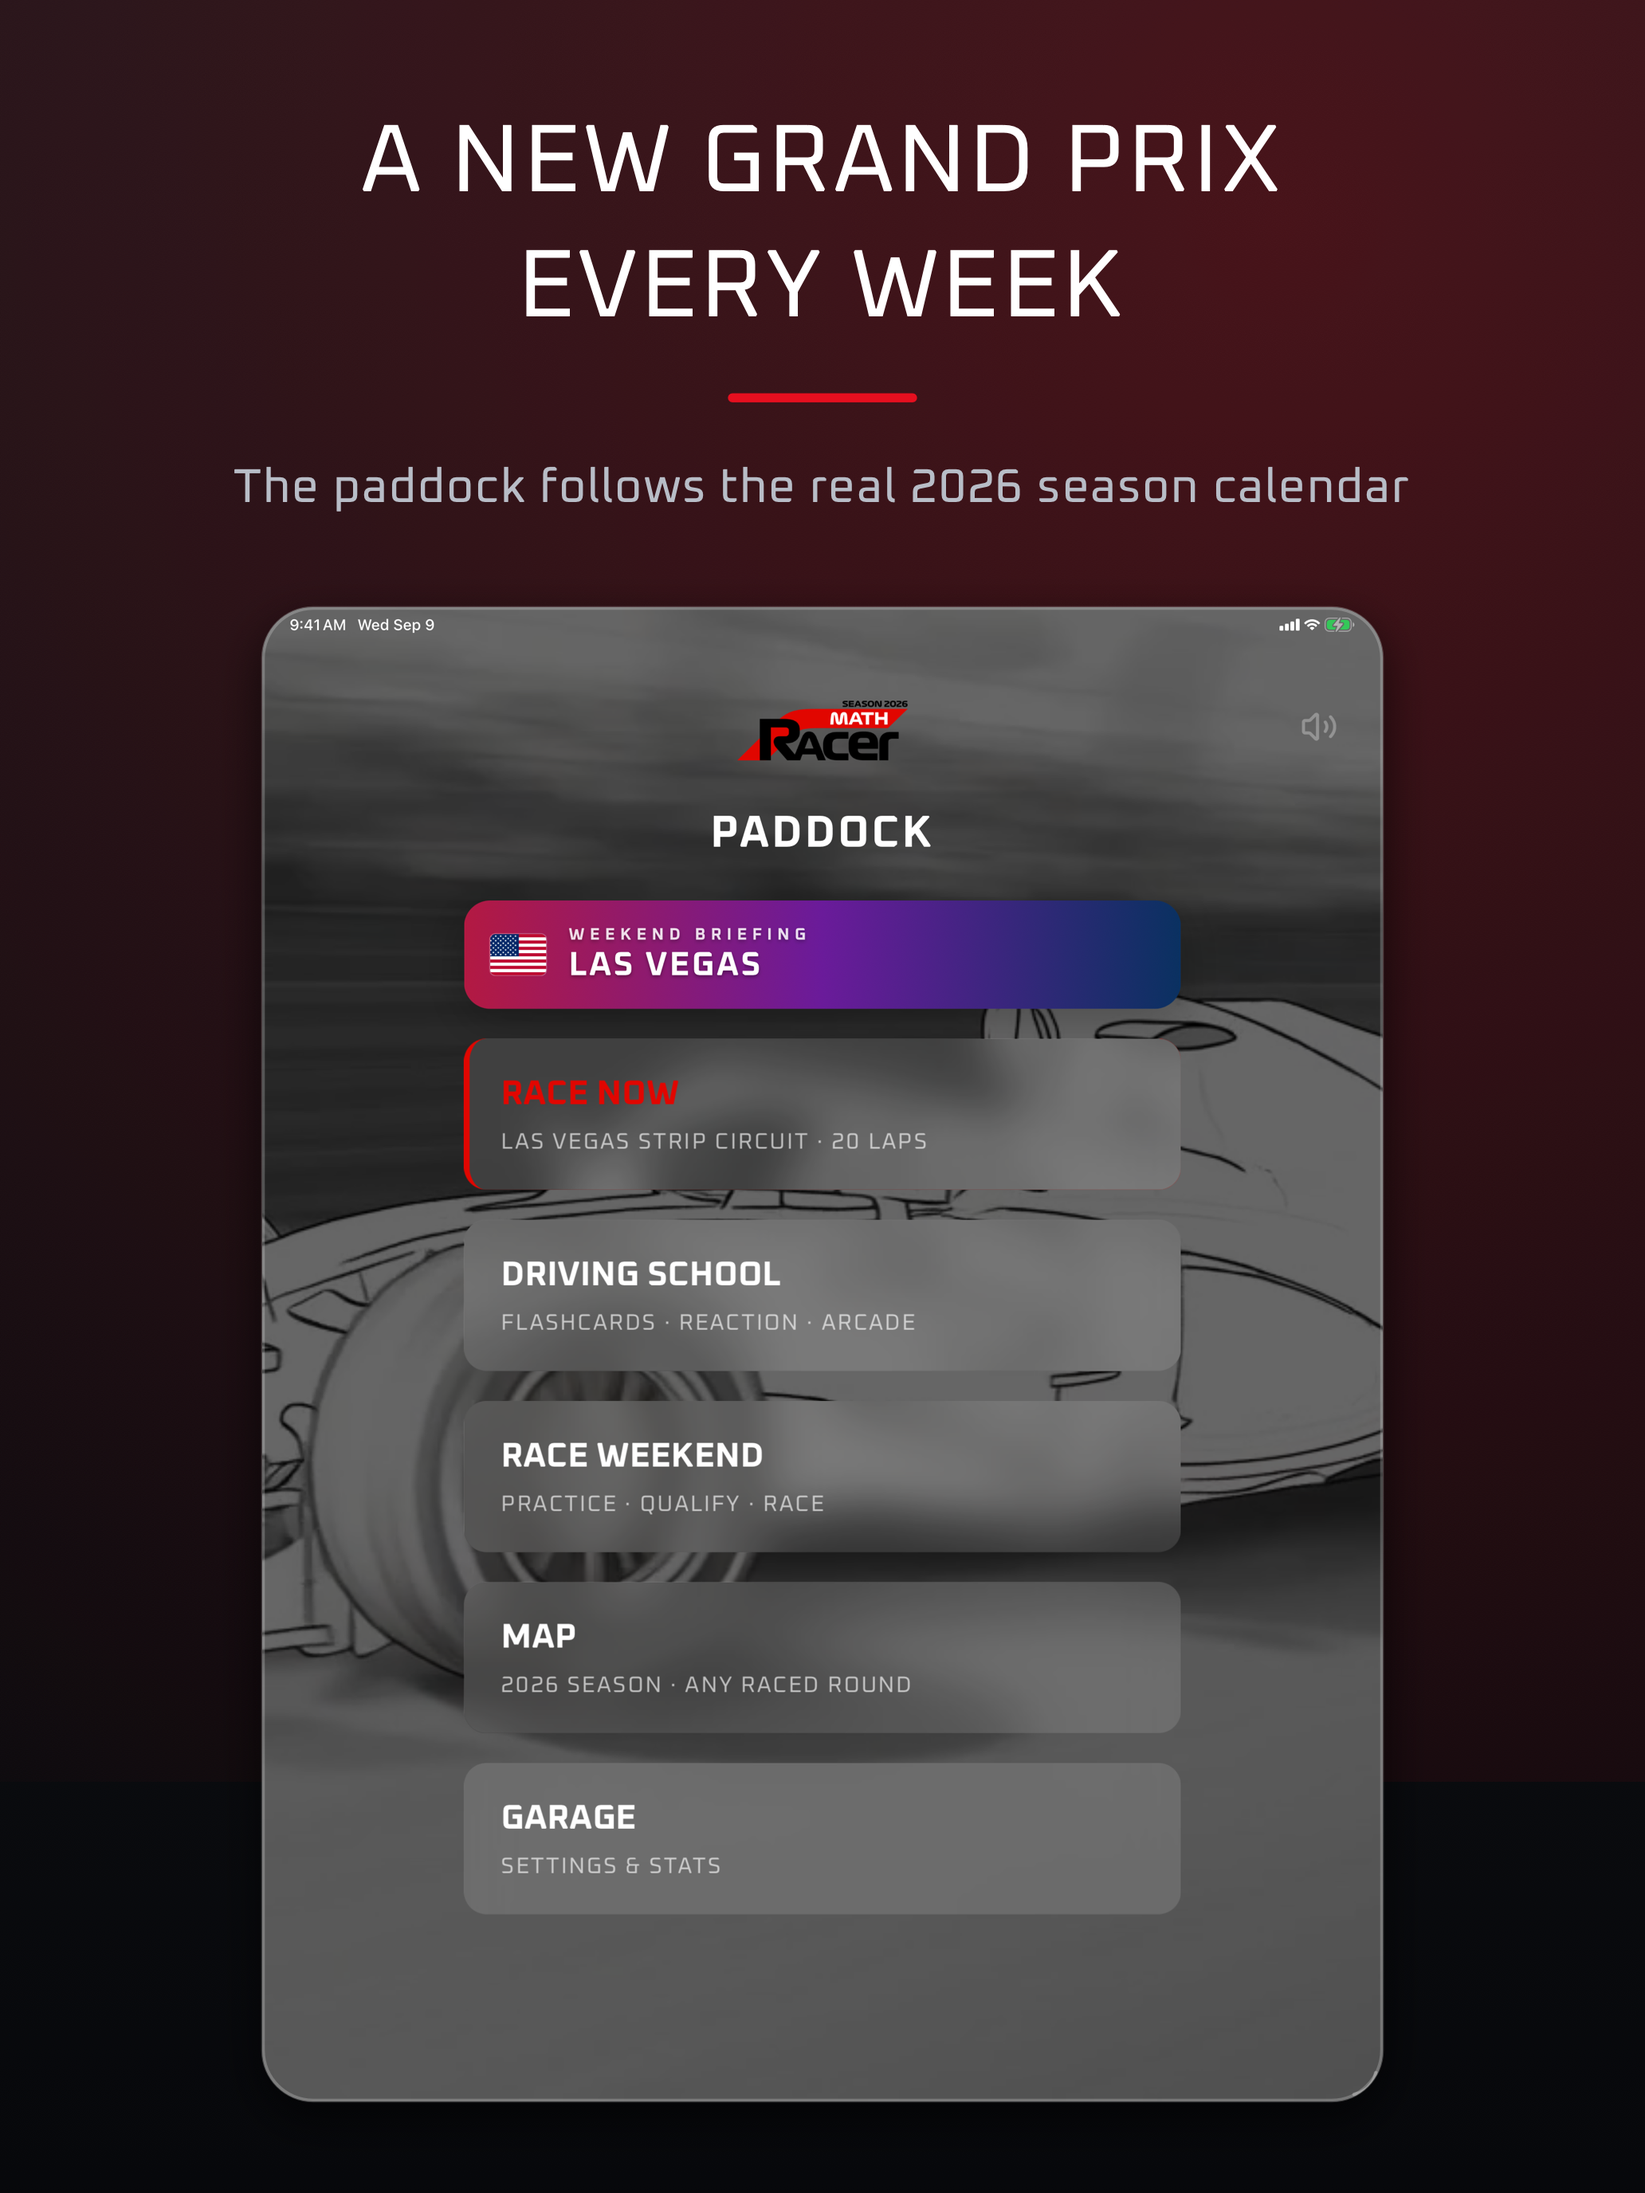
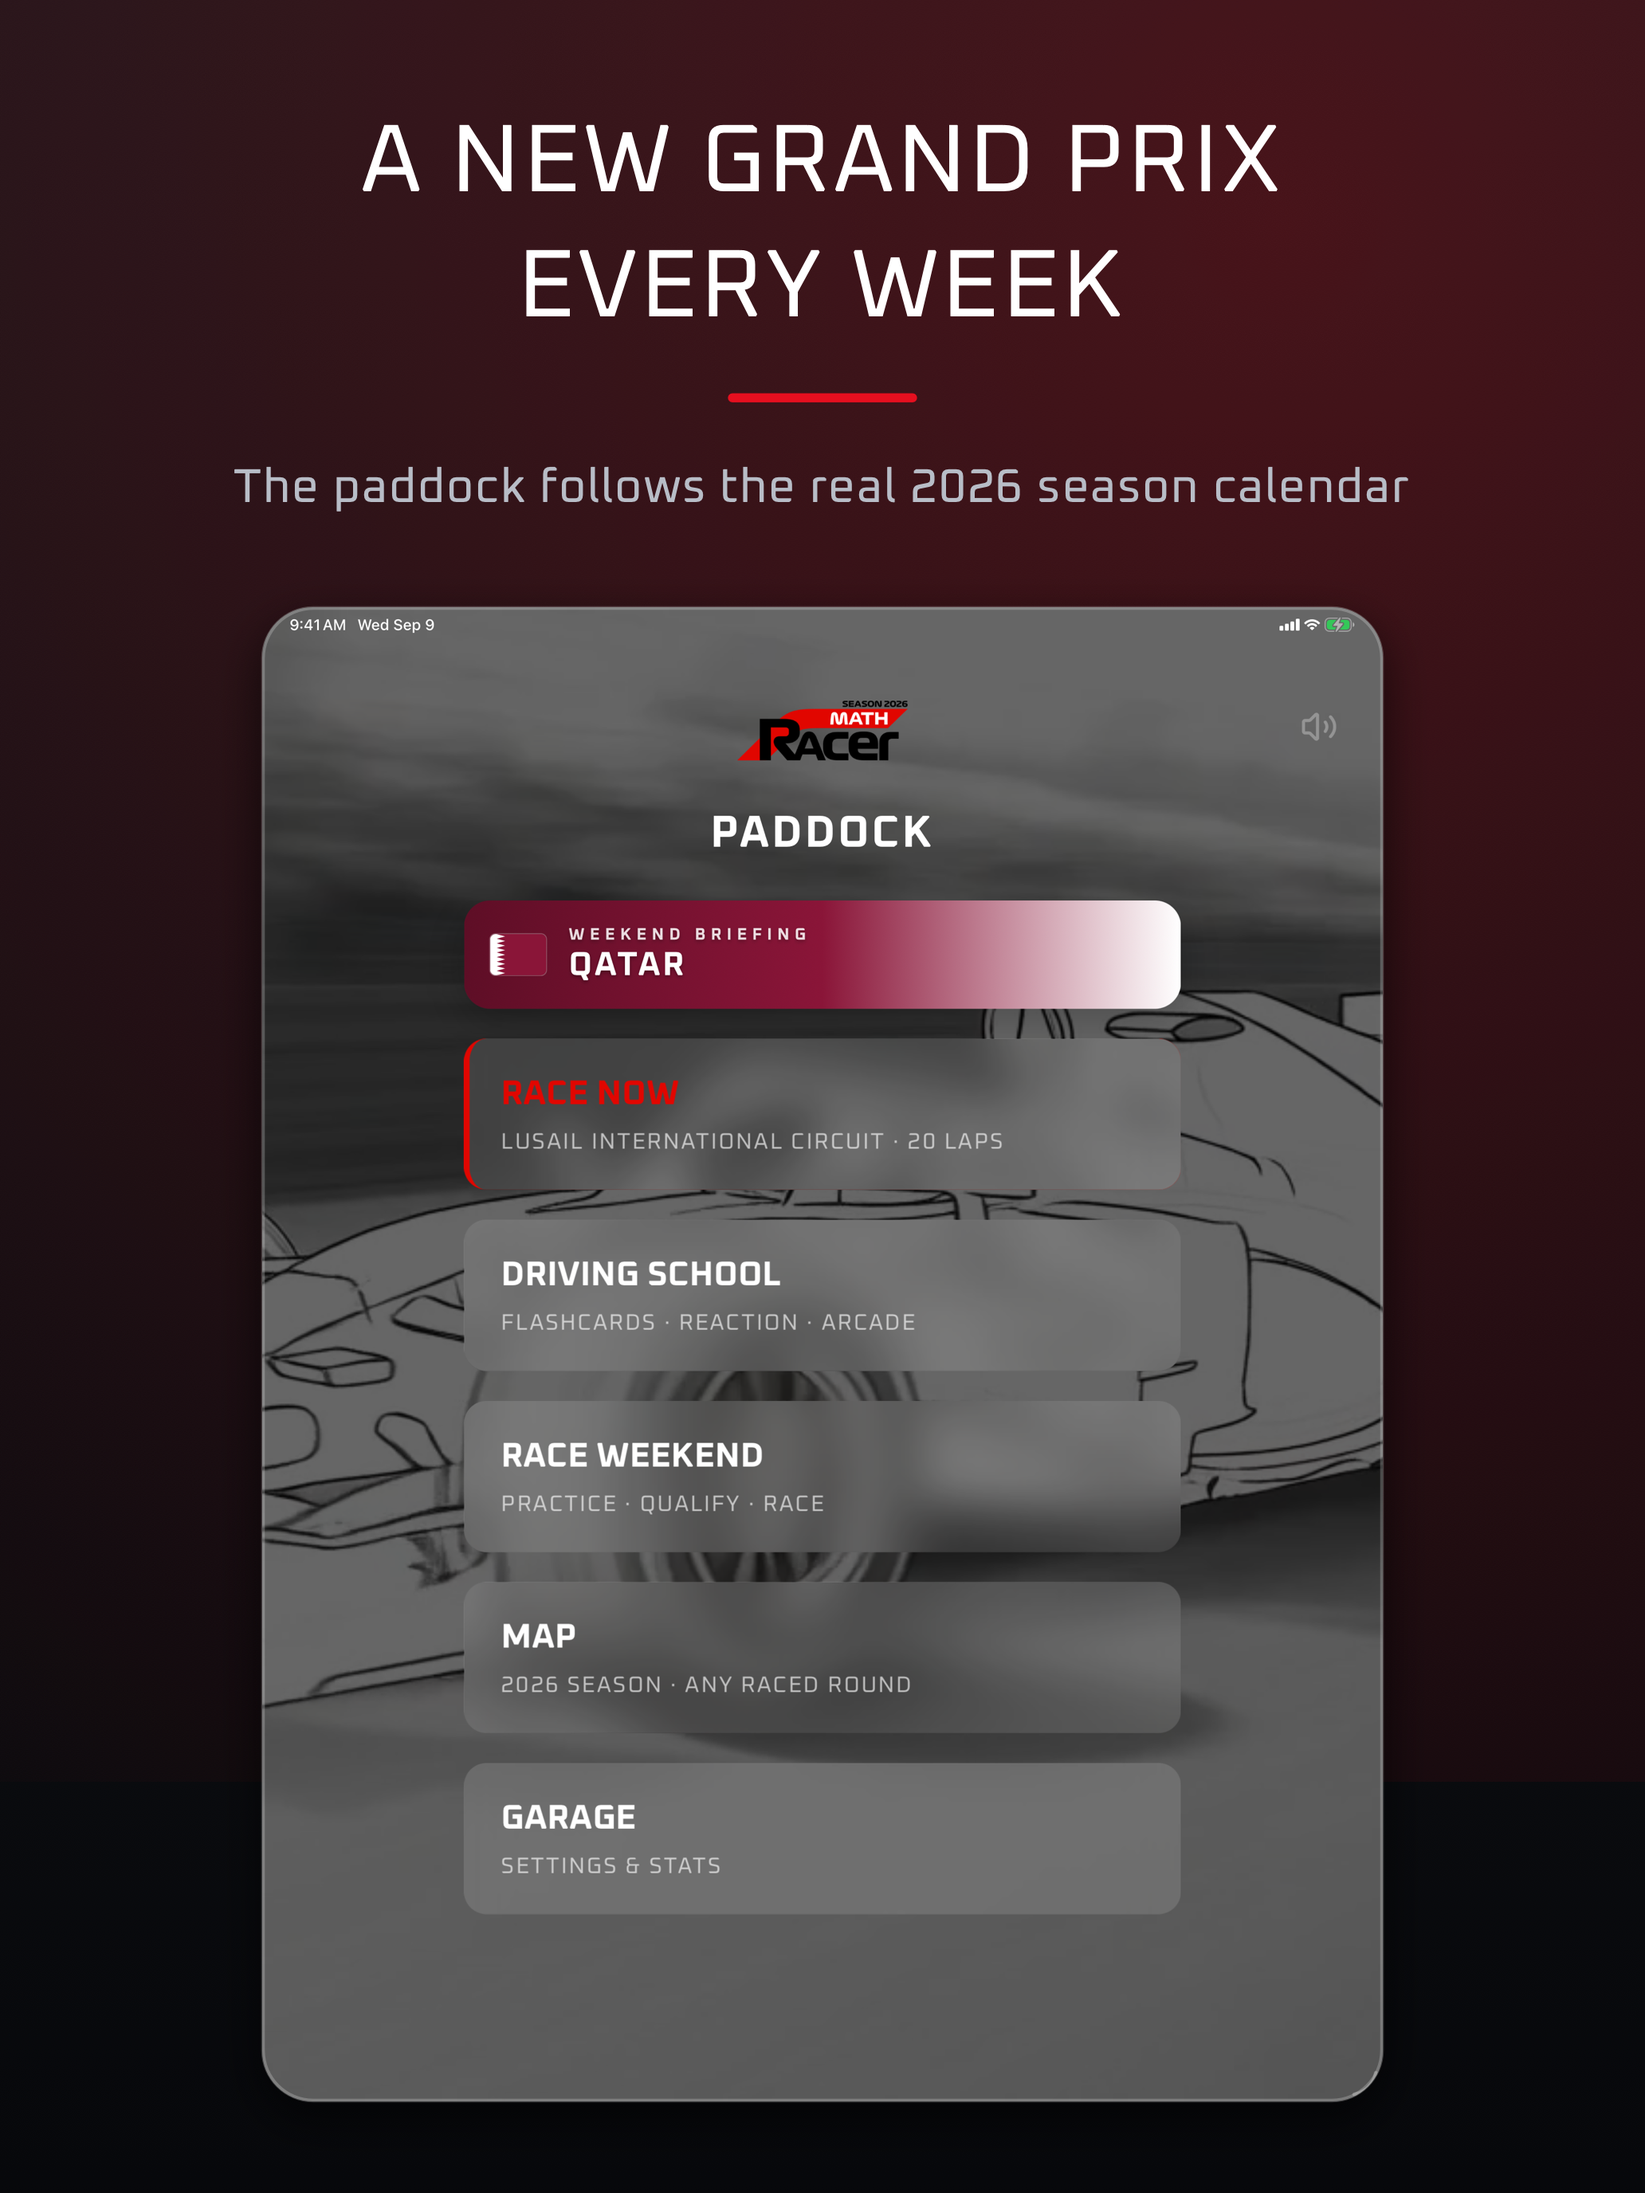
Retake the App Store cards for Qatar
- iphone_6.9/ and iphone_6.3/: 04_grand_prix, 05_paddock and 09_season_map on Round 22 / Qatar
- ipad_13/: 01_race (QATAR header chip, Lap 8/30 mixed sectors, AERO lit), 04_grand_prix, 05_paddock and 09_season_map
- 09_season_map now shows the Middle East view (seeded Baku gold, this week's red Qatar pin, Abu Dhabi dimmed with 6 DEC)
- README: last captured on Round 22 / Qatar, the Middle East 09 recipe, this round's x24 answer timings

diff --git a/app_store/README.md b/app_store/README.md
@@ -28,7 +28,7 @@ product page.
 | `09_season_map` | Race any weekend of the season | Pick a round on the 2026 world map and win its trophy |
 
 `04`, `05`, `09` and the iPad `01` (its header chip) show the current Grand Prix. They
-were last captured on Round 21 / Las Vegas. `02` shows Race Day's lap count
+were last captured on Round 22 / Qatar. `02` shows Race Day's lap count
 (`/56`, from Round 16 / Malaysia) but no circuit name. `06` shows the Reaction Test target
 (`REACTION_LICENCE_MS`, 0.40s), so retake it if that changes.
 
@@ -116,7 +116,9 @@ Captions use Oxanium, the same font as the app.
   background `sleep` before ✓; a long foreground sleep is blocked). A ✓ tapped right
   after a digit was sometimes dropped, so pause about 0.5 s first. That iPad card stops
   at Lap 8/30 (purple, green, yellow, purple, green, purple, purple) with AERO lit;
-  pick the burst frame where the AERO button is deepest blue.
+  pick the burst frame where the AERO button is deepest blue. On 2026-11-26 (Qatar) the
+  same x24 bundle gave that sequence again: answers in under about 25 s purple, about
+  40 s green, about 70 s yellow.
 - **Season Map (`09`)** is the Americas region view (Hub, MAP, then the AMERICAS
   bubble), so it shows every pin state: trophy rings, open rounds, this week's red
   pin and a dimmed future round with its date. The trophies are seeded, like `08`:
@@ -128,7 +130,9 @@ Captions use Oxanium, the same font as the app.
   shows. This week's pin pulses, so take a short burst and pick a frame with the ring.
   Remove the seeded trophies afterwards. From Round 21 / Las Vegas every Americas round
   is open, so the view has no dimmed future pin left. Rounds 22 and 23 (Qatar, Abu
-  Dhabi) put this week's red pin in the Middle East, so switch the card to that
-  region's view then.
+  Dhabi) put this week's red pin in the Middle East, so since Round 22 the card is the
+  MIDDLE EAST view instead, with one seeded trophy: Baku gold (`gp:2026:15:baku`). It
+  holds only three pins (Baku, Qatar and Abu Dhabi), and at Round 22 that shows a
+  trophy ring, this week's red pin and Abu Dhabi dimmed with "6 DEC".
 - **App opens in a window** on the iPad (window controls top-left, wallpaper
   around it): tap the controls, then the green button, and it stays full screen.
